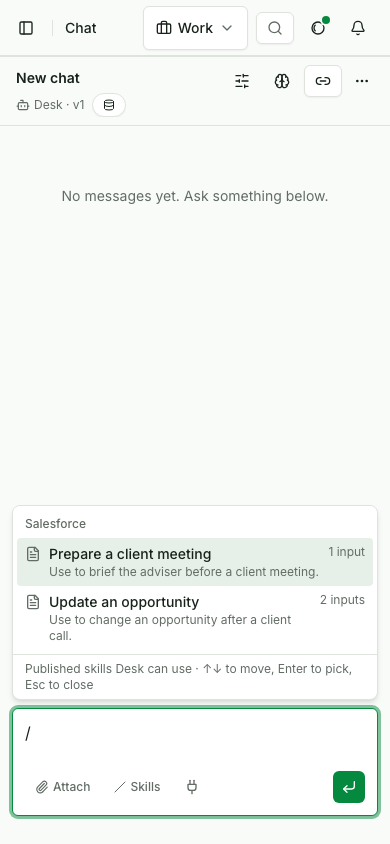
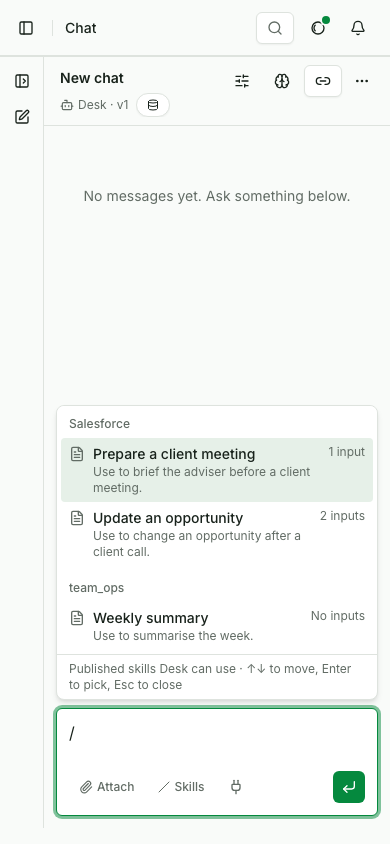
fix(console): skill pick adds a chip; missing inputs asked in a dialog
The inline form clipped under the header and forced filling before typing.
uc-743 ui: 24 checks passed at 1440 and 390; typecheck, check-standards clean.
Siblings: none, searched SkillInputsForm and <Composer (embed shares Composer)

diff --git a/apps/console/src/components/chat/skill-menu.tsx b/apps/console/src/components/chat/skill-menu.tsx
@@ -3,10 +3,10 @@
 import * as React from 'react';
 import { zodResolver } from '@hookform/resolvers/zod';
 import { Controller, useForm } from 'react-hook-form';
-import { FileText, Lock, Sparkles, X } from 'lucide-react';
+import { FileText, Lock, X } from 'lucide-react';
 import { z } from 'zod';
 
-import { Badge } from '@/components/ui/badge';
+import { DialogShell } from '@/components/shared/dialog-shell';
 import { Button } from '@/components/ui/button';
 import { Command, CommandEmpty, CommandGroup, CommandItem, CommandList } from '@/components/ui/command';
 import { Field, FieldDescription, FieldError, FieldGroup, FieldLabel } from '@/components/ui/field';
@@ -133,8 +133,18 @@ export function SkillMenu({
   );
 }
 
-/** The picked skill's inputs, required ones checked before it is added to the message. */
-export function SkillInputsForm({ picked, onDone, onBack }: { picked: PickedSkill; onDone: (inputs: Record<string, string>) => void; onBack: () => void }) {
+/** The inputs a skill needs before it can run that the person has not filled: required ones with no value. */
+export const missingInputs = (p: PickedSkill) => p.fields.filter((f) => f.required && !p.inputs[f.name]?.trim());
+
+/**
+ * Opens on send when the picked skill has required inputs still empty. It asks only for those; the skill's optional
+ * inputs sit behind "More". Submitting hands back every value filled, which the composer sends with the message.
+ */
+export function SkillInputsDialog({ picked, onDone, onCancel }: { picked: PickedSkill; onDone: (inputs: Record<string, string>) => void; onCancel: () => void }) {
+  const missing = missingInputs(picked);
+  const optional = picked.fields.filter((f) => !f.required && !picked.inputs[f.name]?.trim());
+  const [more, setMore] = React.useState(false);
+  const shown = [...missing, ...(more ? optional : [])];
   const schema = React.useMemo(
     () => z.object(Object.fromEntries(picked.fields.map((f) => [f.name, f.required ? z.string().trim().min(1, `${words(f.name)} is required.`) : z.string()]))),
     [picked.fields],
@@ -145,20 +155,25 @@ export function SkillInputsForm({ picked, onDone, onBack }: { picked: PickedSkil
   });
   const submit = form.handleSubmit((values) => onDone(Object.fromEntries(Object.entries(values).filter(([, v]) => v.trim()).map(([k, v]) => [k, v.trim()]))));
   return (
-    <form
-      onSubmit={(e) => void submit(e)}
-      onKeyDown={(e) => e.key === 'Escape' && onBack()}
-      className="absolute inset-x-0 bottom-full z-10 mb-2 rounded-lg border bg-popover p-4 shadow-md"
+    <DialogShell
+      open
+      onOpenChange={(o) => !o && onCancel()}
+      size="sm"
+      title={picked.label}
+      description={missing.length === 1 ? 'One detail is needed before this is sent.' : 'A few details are needed before this is sent.'}
+      onSubmit={() => void submit()}
       data-testid="skill-inputs"
+      footer={
+        <div className="flex w-full justify-end gap-2">
+          <Button type="button" variant="outline" onClick={onCancel}>
+            Cancel
+          </Button>
+          <Button type="submit">Send</Button>
+        </div>
+      }
     >
-      <div className="mb-3 flex items-center gap-2 text-sm font-medium">
-        <Sparkles className="size-4" />
-        <span className="truncate">{picked.label}</span>
-        {picked.version != null && <Badge variant="outline">v{picked.version}</Badge>}
-        <span className="ml-auto text-xs font-normal text-muted-foreground">Esc to cancel</span>
-      </div>
       <FieldGroup className="gap-3">
-        {picked.fields.map((f, i) => (
+        {shown.map((f, i) => (
           <Controller
             key={f.name}
             name={f.name}
@@ -177,13 +192,12 @@ export function SkillInputsForm({ picked, onDone, onBack }: { picked: PickedSkil
           />
         ))}
       </FieldGroup>
-      <div className="mt-4 flex justify-end gap-2">
-        <Button type="button" variant="outline" onClick={onBack}>
-          Back
+      {optional.length > 0 && !more && (
+        <Button type="button" variant="ghost" size="sm" className="mt-2" onClick={() => setMore(true)}>
+          More
         </Button>
-        <Button type="submit">Add to message</Button>
-      </div>
-    </form>
+      )}
+    </DialogShell>
   );
 }
 

diff --git a/apps/console/src/components/chat/composer.tsx b/apps/console/src/components/chat/composer.tsx
@@ -3,7 +3,7 @@
 import * as React from 'react';
 import { Database, Paperclip, Plus, Slash, X } from 'lucide-react';
 
-import { type PickedSkill, SkillChip, SkillInputsForm, SkillMenu, toPick } from '@/components/chat/skill-menu';
+import { missingInputs, type PickedSkill, SkillChip, SkillInputsDialog, SkillMenu, toPick } from '@/components/chat/skill-menu';
 import { KbDot } from '@/components/knowledge/knowledge-meta';
 import { CaretMenu, type MenuRow } from '@/components/shared/caret-menu';
 import { ChatPrompt } from '@/components/shared/chat-blocks';
@@ -204,20 +204,19 @@ export function Composer({
       setAdding(false);
     }
   };
-  // The skill picked for the next message; `filling` while its inputs form is open.
+  // The skill picked for the next message, shown as a chip; `filling` while the dialog asks for its missing inputs.
   const [skill, setSkill] = React.useState<PickedSkill | null>(null);
-  const [filling, setFilling] = React.useState<PickedSkill | null>(null);
+  const [filling, setFilling] = React.useState(false);
   React.useEffect(() => {
     setSkill(null);
-    setFilling(null);
+    setFilling(false);
   }, [draftKey, skillsFor?.id]);
   const tooLong = text.length > MAX;
   const canSend = !disabledReason && !streaming && (!!text.trim() || !!skill) && !tooLong && !filling;
   const slash = skillsFor && !filling ? SLASH.exec(text) : null;
   const pickSkill = (p: PickedSkill) => {
     setText(text.replace(SLASH, '$1').trimEnd());
-    if (p.fields.length) setFilling(p);
-    else setSkill(p);
+    setSkill(p);
   };
   const typed = onMention && !slash ? MENTION.exec(text) : null;
   const found = useOptionSearch(chatAgentOptions, typed?.[2] ?? '', !!typed);
@@ -260,14 +259,20 @@ export function Composer({
     else if (e.key === 'Escape') (go(undefined), setText(text.replace(MENTION, '$1')));
   };
 
-  const send = () => {
-    if (!canSend) return;
+  const sendWith = (picked: PickedSkill | null) => {
     const attachments = files;
     // A skill sent with no words of its own asks for what the skill does.
-    onSend(text.trim() || (skill ? `Use ${skill.label}.` : ''), attachments, skill ? toPick(skill) : undefined);
+    onSend(text.trim() || (picked ? `Use ${picked.label}.` : ''), attachments, picked ? toPick(picked) : undefined);
     setText('');
     setSkill(null);
+    setFilling(false);
     setFiles([]);
+  };
+  // Required inputs still empty hold the send back and ask for just those.
+  const send = () => {
+    if (!canSend) return;
+    if (skill && missingInputs(skill).length) setFilling(true);
+    else sendWith(skill);
   };
 
   if (disabledReason)
@@ -281,15 +286,8 @@ export function Composer({
       }}
     >
       {slash && skillsFor && <SkillMenu agentId={skillsFor.id} agentName={skillsFor.name} query={slash[2]} onPick={pickSkill} className={menuPlace} />}
-      {filling && (
-        <SkillInputsForm
-          picked={filling}
-          onBack={() => setFilling(null)}
-          onDone={(inputs) => {
-            setSkill({ ...filling, inputs });
-            setFilling(null);
-          }}
-        />
+      {filling && skill && (
+        <SkillInputsDialog picked={skill} onCancel={() => setFilling(false)} onDone={(inputs) => sendWith({ ...skill, inputs: { ...skill.inputs, ...inputs } })} />
       )}
       {typed && (
         <CaretMenu<MentionOption>
